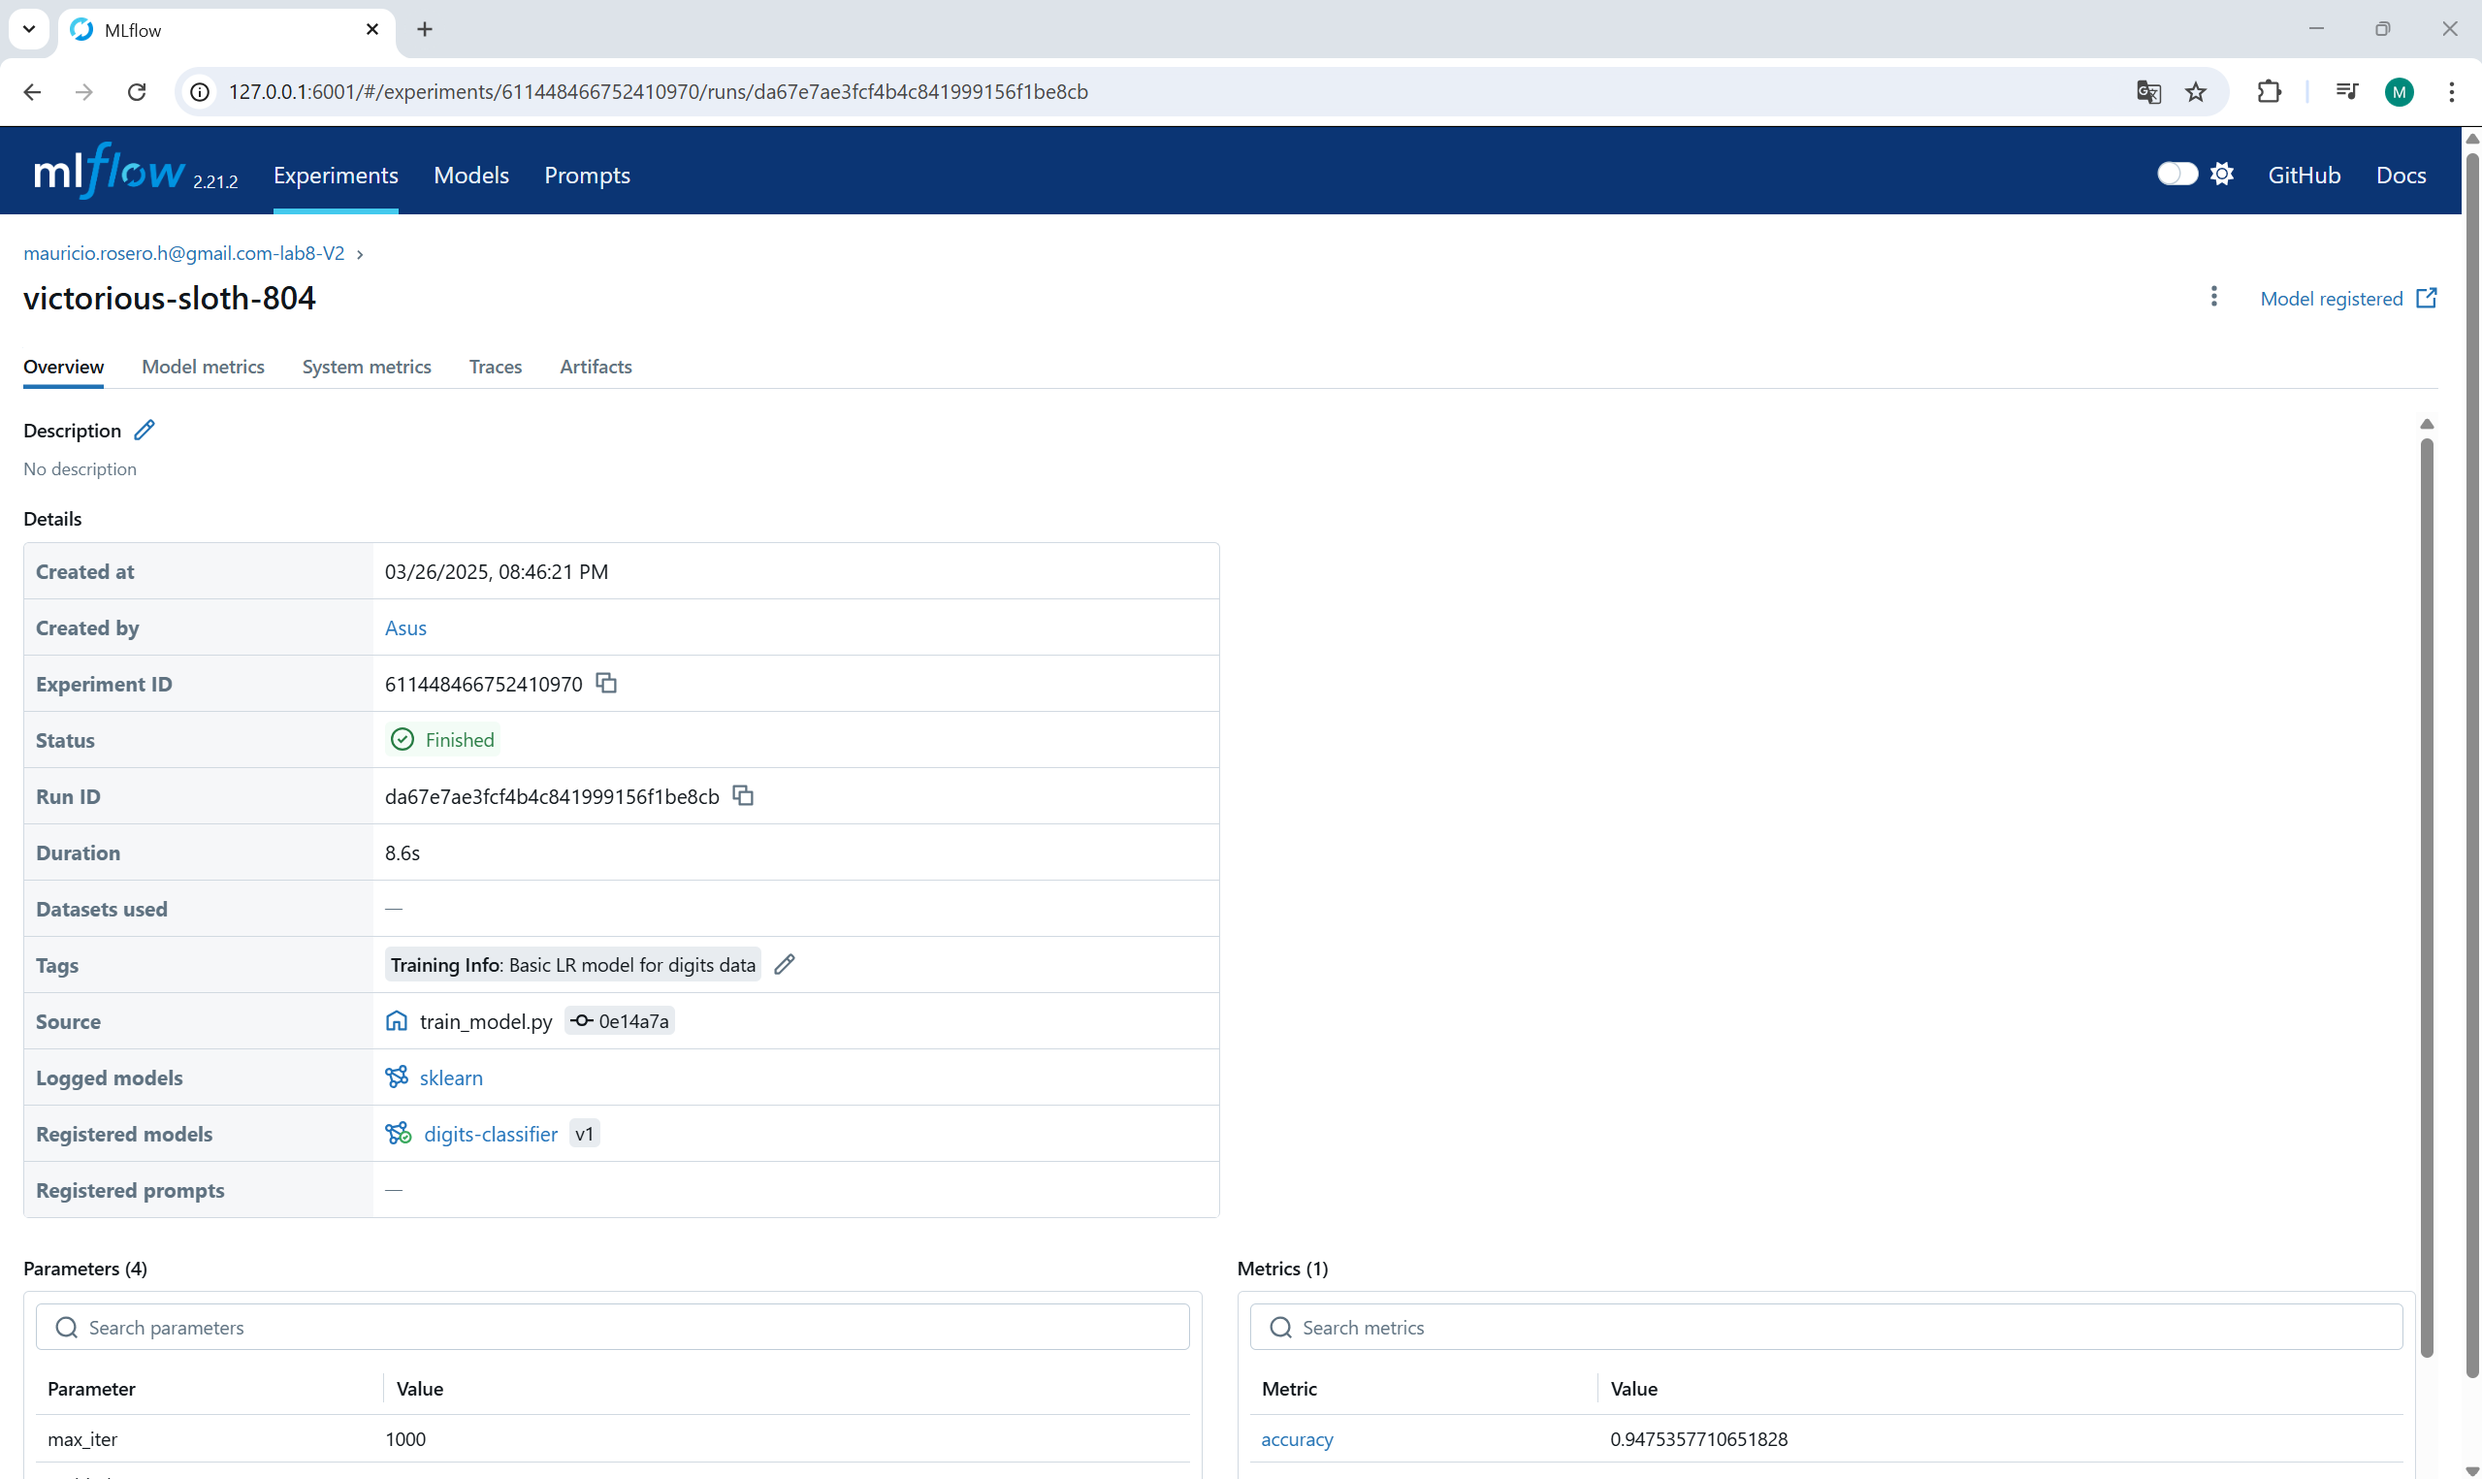
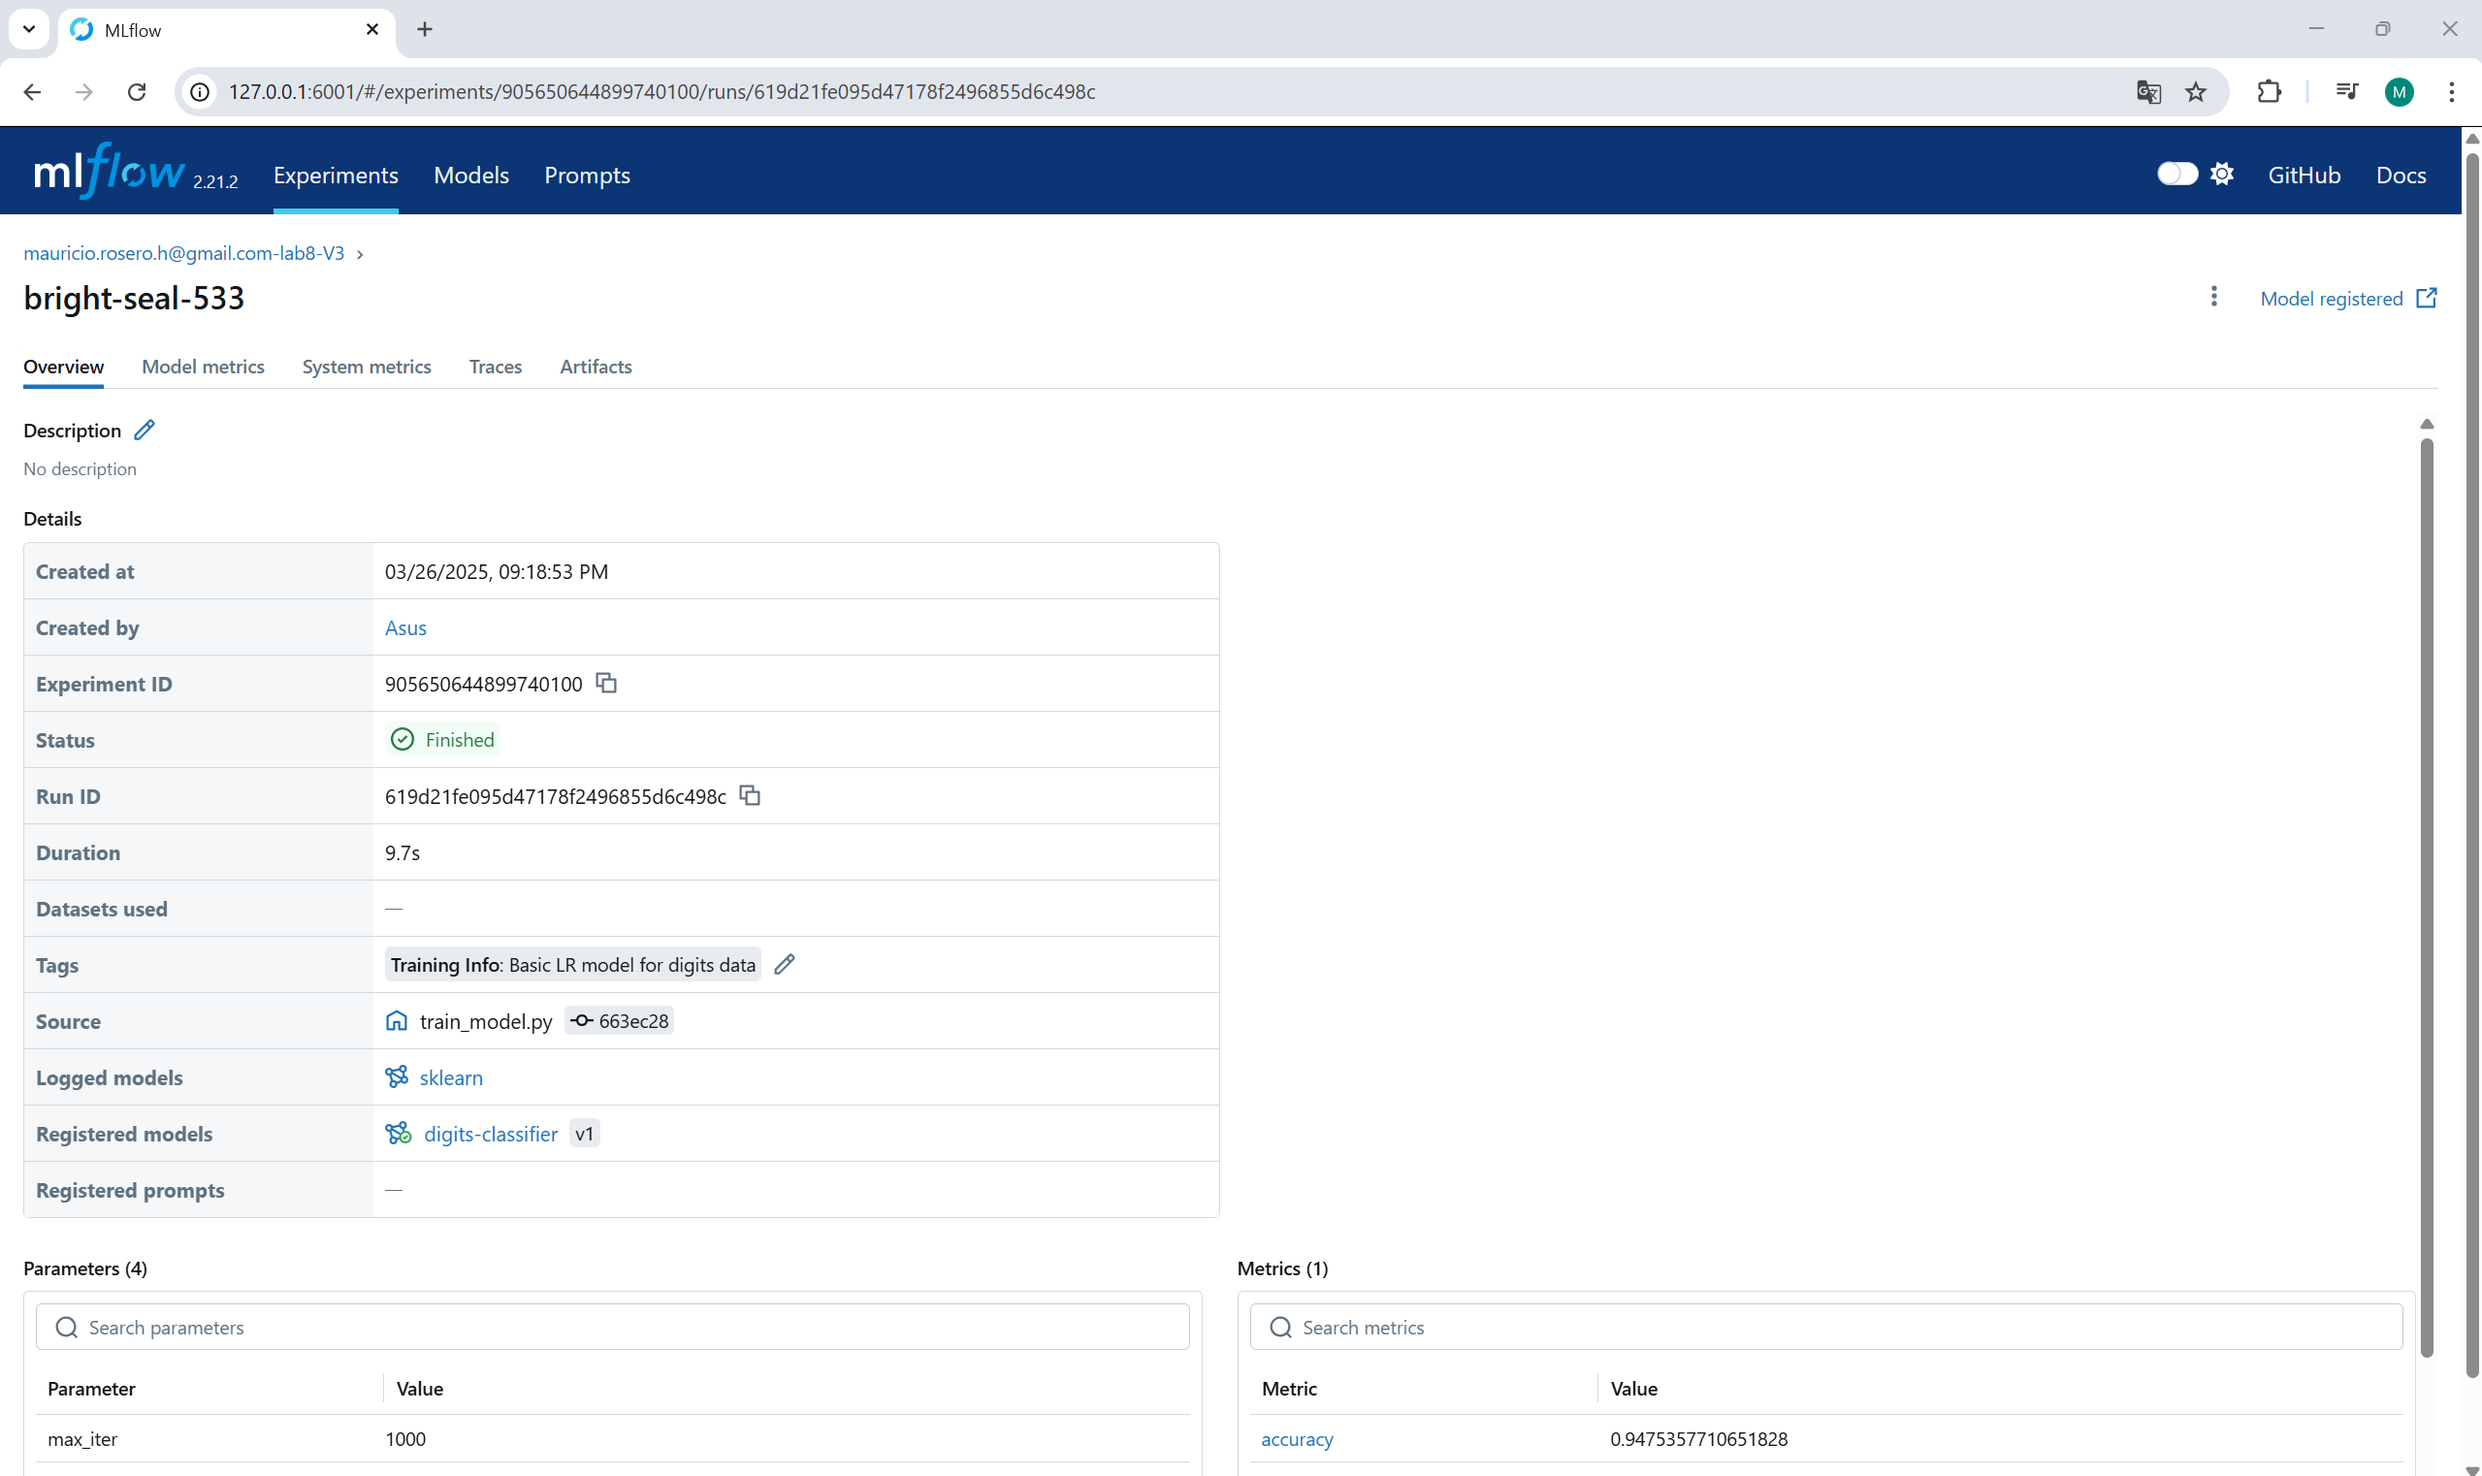
Update

diff --git a/train_model.py b/train_model.py
@@ -2,42 +2,51 @@ import mlflow
 from mlflow.models import infer_signature
 from utility import pipeline
 
-# Configuración del servidor MLFlow
-uri = "http://127.0.0.1:6001"
-mlflow.set_tracking_uri(uri)
+# Configuración del servidor (igual que antes)
+mlflow.set_tracking_uri("http://127.0.0.1:6001")
+mlflow.set_experiment("mauricio.rosero.h@gmail.com-lab8-V3")  
 
-# Nombre del experimento
-email = "mauricio.rosero.h@gmail.com" 
-experiment_name = f"{email}-lab8-V2"
-mlflow.set_experiment(experiment_name)
-
-# Generar datos
+# Cargar datos
 X_train, X_test, y_train, y_test = pipeline.data_preprocessing()
 
-# Parámetros del modelo
+# Nuevos parámetros para Random Forest
 params = {
-    "solver": "lbfgs",
-    "max_iter": 1000,
-    "multi_class": "auto",
-    "random_state": 8888,
+    "n_estimators": 150,
+    "max_depth": 10,
+    "random_state": 42,
+    "class_weight": "balanced"  
 }
 
-# Entrenar modelo
-trained_model = pipeline.train_logistic_regression(X_train, y_train, params)
-accuracy = pipeline.evaluation(trained_model, X_test, y_test)  
+# Entrenar modelo 
+trained_model = pipeline.train_random_forest(X_train, y_train, params)
+accuracy = pipeline.evaluation(trained_model, X_test, y_test)
 
-# Registrar en MLFlow
-with mlflow.start_run():
+# Registrar en MLFlow con metadata mejorada
+with mlflow.start_run(run_name="Random Forest v1"):
+    # 1. Log de parámetros y métricas
     mlflow.log_params(params)
     mlflow.log_metric("accuracy", accuracy)
-    mlflow.set_tag("Training Info", "Basic LR model for digits data")
     
+    mlflow.set_tags({
+        "Training Info": "Random Forest para clasificación de dígitos",
+        "Algorithm": "RandomForestClassifier",
+        "Data": "Digits dataset (sklearn)",
+        "Purpose": "Demo MLFlow Lab8 - RF"
+    })
+    
+    # Descripción del modelo
+    mlflow.log_text(
+        "Modelo Random Forest con 150 árboles y profundidad máxima 10. "
+        "Precisión mejorada.",
+        "model_description.txt"
+    )
+    
+    # Registrar el modelo (mismo nombre, nueva versión)
     signature = infer_signature(X_train, trained_model.predict(X_train))
-    
     model_info = mlflow.sklearn.log_model(
         sk_model=trained_model,
-        artifact_path="digits_model",
+        artifact_path="digits_rf_model",
         signature=signature,
         input_example=X_train,
-        registered_model_name="digits-classifier",
+        registered_model_name="digits-classifier"  
     )
